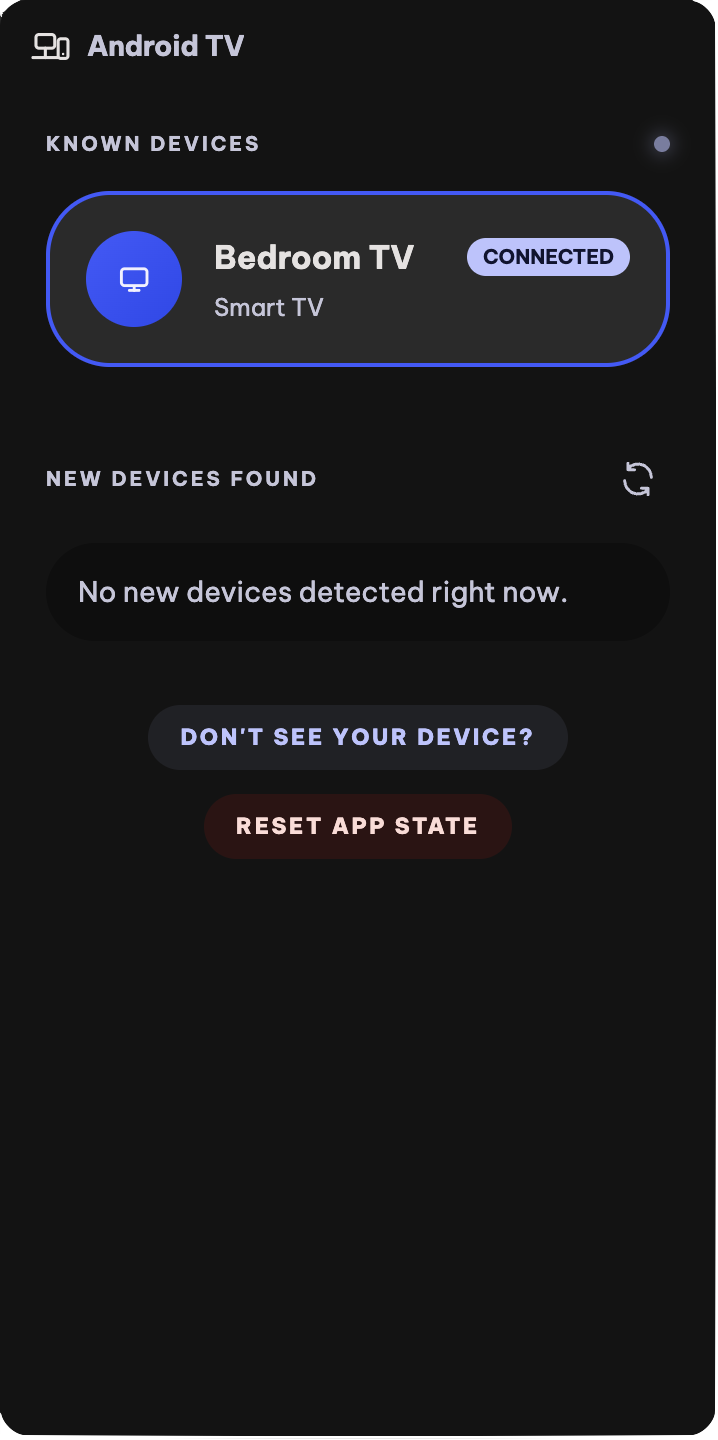
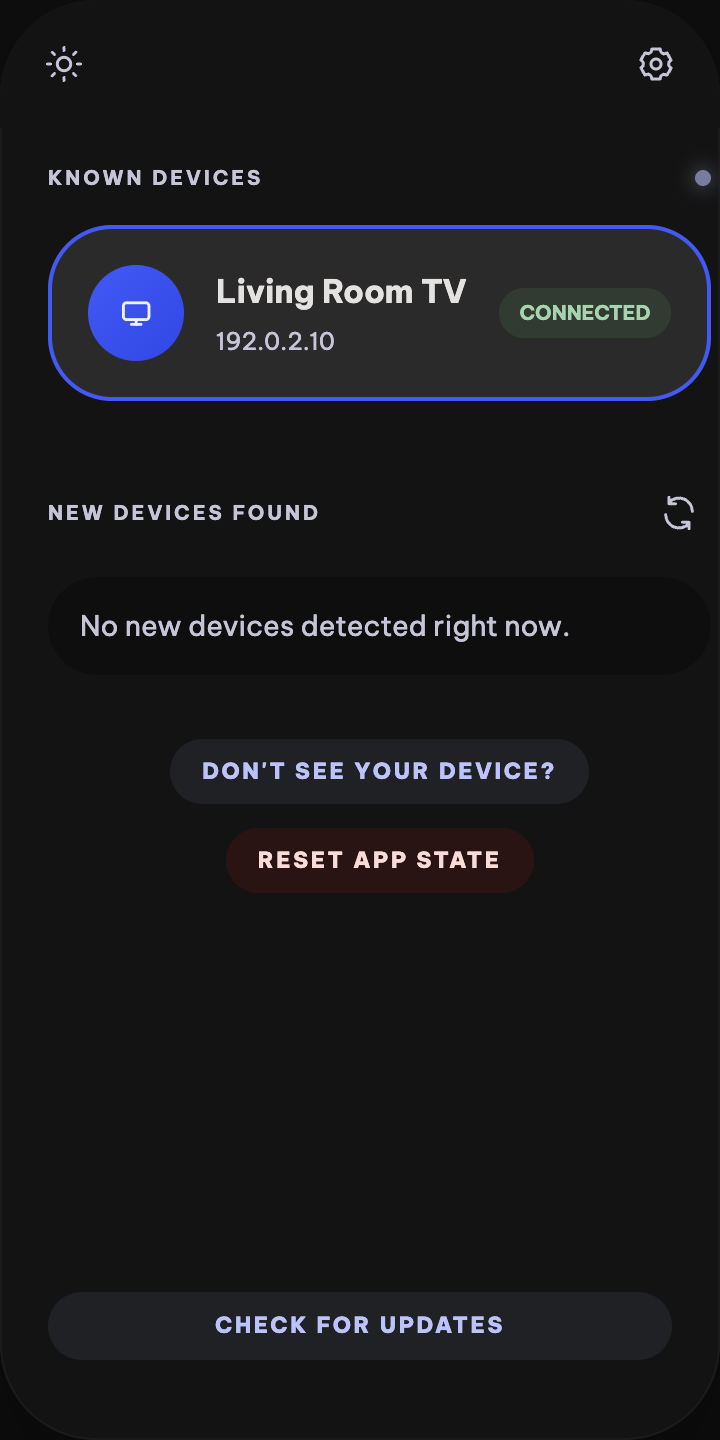
feat(ui): add theme toggle and balance remote headers

diff --git a/src/renderer/styles.css b/src/renderer/styles.css
@@ -19,10 +19,33 @@
   --primary-deep: #2848ee;
   --danger: #93000a;
   --danger-text: #ffdad6;
+  --connected-background: rgba(52, 168, 83, 0.14);
+  --connected-text: #9bd5ac;
   background:
     radial-gradient(circle at top, rgba(61, 90, 254, 0.12), transparent 24%),
     linear-gradient(180deg, #0c0c0d 0%, #121212 55%, #0b0b0b 100%);
   color: var(--text);
+}
+
+:root[data-theme='light'] {
+  color-scheme: light;
+  --surface: #faf9f7;
+  --surface-low: #f0efed;
+  --surface-high: #e7e6e4;
+  --surface-highest: #dbdad8;
+  --surface-lowest: #f4f3f1;
+  --surface-bright: #d2d1cf;
+  --outline-ghost: rgba(49, 51, 67, 0.12);
+  --text: #232326;
+  --text-muted: #55566b;
+  --primary: #344ac1;
+  --primary-strong: #3d5afe;
+  --primary-deep: #2848ee;
+  --danger: #93000a;
+  --danger-text: #a31b25;
+  --connected-background: rgba(39, 132, 63, 0.11);
+  --connected-text: #236c38;
+  background: var(--surface-lowest);
 }
 
 * {
@@ -126,6 +149,26 @@ p {
 .ui-header-pairing {
   display: flex;
   gap: 0.75rem;
+}
+
+.ui-header-device,
+.ui-header-remote {
+  flex-shrink: 0;
+  height: 4rem;
+  padding: 1rem;
+  display: grid;
+  grid-template-columns: 2rem minmax(0, 1fr) 2rem;
+}
+
+.ui-header-status {
+  display: flex;
+  min-width: 0;
+  align-items: center;
+  justify-content: center;
+}
+
+.ui-header-status .ui-status-pill {
+  min-height: 2rem;
 }
 
 .ui-header-settings-action {
@@ -284,28 +327,6 @@ p {
   color: var(--primary);
 }
 
-.ui-brand {
-  display: flex;
-  align-items: center;
-  gap: 0.5rem;
-  min-width: 0;
-  overflow: hidden;
-}
-
-.ui-brand-label {
-  overflow: hidden;
-  text-overflow: ellipsis;
-  white-space: nowrap;
-  font-size: 0.875rem;
-  font-weight: 700;
-  letter-spacing: -0.01em;
-  color: var(--text);
-}
-
-.ui-brand-label-muted {
-  color: var(--text-muted);
-}
-
 .ui-header-mode {
   justify-self: center;
   align-self: center;
@@ -358,29 +379,22 @@ p {
   letter-spacing: 0.16em;
   line-height: 1;
   box-shadow: 0 0 20px rgba(61, 90, 254, 0.08);
+  text-align: center;
+}
+
+.ui-status-pill-connected {
+  background: var(--connected-background);
+  color: var(--connected-text);
+  box-shadow: none;
 }
 
 .ui-pill-text {
   display: block;
   line-height: 1;
-  transform: translateY(0.04em);
 }
 
 .ui-status-pill-error {
   color: var(--danger-text);
-}
-
-.ui-status-dot {
-  width: 0.375rem;
-  height: 0.375rem;
-  border-radius: 999px;
-  background: var(--primary);
-  box-shadow: 0 0 8px #bbc3ff;
-}
-
-.ui-status-pill-error .ui-status-dot {
-  background: #ff7b72;
-  box-shadow: 0 0 8px rgba(255, 123, 114, 0.8);
 }
 
 .ui-screen-scroll {
@@ -567,6 +581,11 @@ p {
 .ui-badge-active {
   background: var(--primary);
   color: #101431;
+}
+
+.ui-badge-connected {
+  background: var(--connected-background);
+  color: var(--connected-text);
 }
 
 .ui-found-row {
@@ -1241,6 +1260,110 @@ p {
   letter-spacing: 0.04em;
   text-transform: uppercase;
   white-space: nowrap;
+}
+
+:root[data-theme='light'] .ui-frame {
+  box-shadow: 0 30px 80px rgba(35, 35, 38, 0.15);
+}
+
+:root[data-theme='light'] .ui-live-dot {
+  background: var(--primary);
+  box-shadow: 0 0 10px rgba(52, 74, 193, 0.25);
+}
+
+:root[data-theme='light'] .ui-badge-active {
+  color: #fff;
+}
+
+:root[data-theme='light'] .ui-help-chip,
+:root[data-theme='light'] .ui-update-check,
+:root[data-theme='light'] .ui-update-secondary:hover {
+  background: rgba(52, 74, 193, 0.08);
+}
+
+:root[data-theme='light'] .ui-help-chip:hover,
+:root[data-theme='light'] .ui-update-check:hover,
+:root[data-theme='light'] .ui-update-toast,
+:root[data-theme='light'] .ui-update-close:hover,
+:root[data-theme='light'] .ui-alert-connecting {
+  background: rgba(52, 74, 193, 0.12);
+}
+
+:root[data-theme='light'] .ui-help-chip-danger {
+  background: rgba(147, 0, 10, 0.08);
+}
+
+:root[data-theme='light'] .ui-help-chip-danger:hover,
+:root[data-theme='light'] .ui-alert:not(.ui-alert-connecting) {
+  background: rgba(147, 0, 10, 0.12);
+}
+
+:root[data-theme='light'] .ui-update-progress-track {
+  background: rgba(52, 74, 193, 0.16);
+}
+
+:root[data-theme='light'] .ui-update-secondary {
+  border-color: rgba(52, 74, 193, 0.35);
+  color: var(--text-muted);
+}
+
+:root[data-theme='light'] .ui-update-secondary:hover {
+  border-color: rgba(52, 74, 193, 0.6);
+  color: var(--primary);
+}
+
+:root[data-theme='light'] .ui-pair-icon {
+  box-shadow: inset 0 10px 18px rgba(35, 35, 38, 0.08);
+}
+
+:root[data-theme='light'] .ui-code-slot {
+  border-bottom-color: var(--surface-highest);
+  color: var(--text-muted);
+}
+
+:root[data-theme='light'] .ui-code-slot-filled {
+  border-bottom-color: var(--primary);
+  color: var(--text);
+}
+
+:root[data-theme='light'] .ui-dpad {
+  background:
+    radial-gradient(circle at center, var(--surface-low) 0 32%, transparent 32%),
+    var(--surface-lowest);
+  box-shadow: inset 0 12px 20px rgba(35, 35, 38, 0.1);
+}
+
+:root[data-theme='light'] .ui-dpad-center {
+  box-shadow: 0 24px 40px rgba(35, 35, 38, 0.12);
+}
+
+:root[data-theme='light'] .ui-nav-well,
+:root[data-theme='light'] .ui-media-section {
+  background: rgba(240, 239, 237, 0.7);
+}
+
+:root[data-theme='light'] .ui-glass-sheet {
+  background: rgba(219, 218, 216, 0.72);
+}
+
+:root[data-theme='light'] .ui-textarea::placeholder {
+  color: var(--text-muted);
+}
+
+:root[data-theme='light'] .ui-media-danger {
+  color: #ffdad6;
+}
+
+:root[data-theme='light'] .ui-footer-bar {
+  background: linear-gradient(180deg, rgba(250, 249, 247, 0.72), rgba(250, 249, 247, 0.96));
+}
+
+:root[data-theme='light'] .ui-footer-item {
+  background: rgba(231, 230, 228, 0.72);
+}
+
+:root[data-theme='light'] .ui-footer-item:hover {
+  background: var(--surface-highest);
 }
 
 @media (max-width: 420px) {

diff --git a/src/renderer/App.tsx b/src/renderer/App.tsx
@@ -55,6 +55,8 @@ type IconName =
   | 'back'
   | 'keyboard'
   | 'settings'
+  | 'sun'
+  | 'moon'
   | 'play'
   | 'power'
   | 'volumeUp'
@@ -87,6 +89,19 @@ function Icon({ name, className }: { name: IconName; className?: string }) {
   };
 
   switch (name) {
+    case 'sun':
+      return (
+        <svg {...props}>
+          <circle cx="12" cy="12" r="4" />
+          <path d="M12 2V4M12 20V22M2 12H4M20 12H22M4.9 4.9L6.3 6.3M17.7 17.7L19.1 19.1M4.9 19.1L6.3 17.7M17.7 6.3L19.1 4.9" />
+        </svg>
+      );
+    case 'moon':
+      return (
+        <svg {...props}>
+          <path d="M20.5 14A8.5 8.5 0 0 1 10 3.5 8.5 8.5 0 1 0 20.5 14Z" />
+        </svg>
+      );
     case 'devices':
       return (
         <svg {...props}>
@@ -271,6 +286,24 @@ function Icon({ name, className }: { name: IconName; className?: string }) {
 }
 
 function App() {
+  const [theme, setTheme] = useState<'dark' | 'light'>(() => {
+    if (typeof window === 'undefined') return 'dark';
+    try {
+      return window.localStorage.getItem('gtv-remote.theme') === 'light' ? 'light' : 'dark';
+    } catch {
+      return 'dark';
+    }
+  });
+
+  useEffect(() => {
+    document.documentElement.dataset.theme = theme;
+    try {
+      window.localStorage.setItem('gtv-remote.theme', theme);
+    } catch {
+      // Ignore storage failures; theme switching still works for this session.
+    }
+  }, [theme]);
+
   const [settingsOpen, setSettingsOpen] = useState(false);
   const settingsButtonRef = useRef<HTMLButtonElement>(null);
   const [bootstrap, setBootstrap] = useState<BootstrapState>({
@@ -1442,31 +1475,33 @@ function App() {
                     <Icon name="devices" className="h-[1.15rem] w-[1.15rem] text-primary-strong" />
                   </div>
                 </>
-              ) : currentView === 'devices' ? (
-                <>
-                  <div className="ui-brand">
-                    <Icon name="devices" className="h-[1.28rem] w-[1.28rem] text-primary-strong" />
-                    <span className="ui-brand-label ui-brand-label-muted">Android TV</span>
-                  </div>
-                </>
               ) : (
                 <>
-                  <div className="ui-brand">
-                    <Icon name="devices" className="h-[1.28rem] w-[1.28rem] text-primary-strong" />
-                    <span className="ui-brand-label">Android TV</span>
-                  </div>
-                  <div className="flex min-w-0 items-center gap-3 ui-dragless">
-                    <div
-                      className={classes(
-                        'ui-status-pill',
-                        bootstrap.deviceState.status === 'error' && 'ui-status-pill-error'
-                      )}
-                    >
-                      <span className="ui-status-dot" />
-                      <span className="ui-pill-text">
-                        {isConnected ? 'Connected' : bootstrap.deviceState.status}
-                      </span>
-                    </div>
+                  <button
+                    type="button"
+                    className="ui-icon-button ui-dragless"
+                    aria-label={theme === 'dark' ? 'Switch to light theme' : 'Switch to dark theme'}
+                    title={theme === 'dark' ? 'Switch to light theme' : 'Switch to dark theme'}
+                    onClick={() => {
+                      setTheme((current) => (current === 'dark' ? 'light' : 'dark'));
+                    }}
+                  >
+                    <Icon name={theme === 'dark' ? 'sun' : 'moon'} className="h-5 w-5" />
+                  </button>
+                  <div className="ui-header-status ui-dragless">
+                    {currentView === 'remote' ? (
+                      <div
+                        className={classes(
+                          'ui-status-pill',
+                          isConnected && 'ui-status-pill-connected',
+                          bootstrap.deviceState.status === 'error' && 'ui-status-pill-error'
+                        )}
+                      >
+                        <span className="ui-pill-text">
+                          {isConnected ? 'Connected' : bootstrap.deviceState.status}
+                        </span>
+                      </div>
+                    ) : null}
                   </div>
                 </>
               )}
@@ -1528,7 +1563,11 @@ function App() {
                                   <span className="ui-card-meta">{subtitle}</span>
                                 </div>
                                 <span
-                                  className={classes('ui-badge', isActive && 'ui-badge-active')}
+                                  className={classes(
+                                    'ui-badge',
+                                    isActive &&
+                                      (isConnected ? 'ui-badge-connected' : 'ui-badge-active')
+                                  )}
                                 >
                                   <span className="ui-pill-text">{status}</span>
                                 </span>

diff --git a/README.md b/README.md
@@ -98,6 +98,10 @@ The Homebrew cask removes the quarantine flag automatically during install and p
 
 The app remembers paired devices, so future connections are instant.
 
+### Remote appearance
+
+Click the sun in the device-list or remote header to switch to light theme, or the moon to return to dark theme. Dark is the default; your choice is remembered across launches and also applies to Settings. The remote header uses a centered, subtly green **Connected** pill for an active connection and a neutral pill while connecting; the device-list header has no connection pill.
+
 ### Finding, hiding, and quitting the remote
 
 On first launch, a dismissible **Welcome to GTV Remote** hint explains where the app lives. Click **Got it** to acknowledge it; it will not appear again on later launches.
